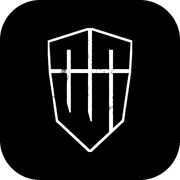
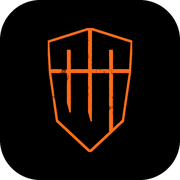
Rebuild the colours in orange, black and grey
One orange world, the same in light and dark: black type and pills on
an orange ground; the spectrum, product and link tiles in black and dark
grey carrying orange and light grey. The spectrum's bars are orange. The
favicon and home-screen icon are the orange mark on black, and the
browser theme colour is the orange.

Changed region(s): [[0.25, 0.1389, 0.75, 0.8611]]

diff --git a/index.html b/index.html
@@ -5,8 +5,7 @@
 <meta name="viewport" content="width=device-width, initial-scale=1, viewport-fit=cover">
 <title>ETH4N / Walker dsp</title>
 <meta name="description" content="ETH4N / Ayumu Iida と、プラグインメーカー Walker dsp。">
-<meta name="theme-color" media="(prefers-color-scheme: dark)" content="#000000">
-<meta name="theme-color" media="(prefers-color-scheme: light)" content="#ffffff">
+<meta name="theme-color" content="#ff6b1a">
 <meta property="og:type" content="website">
 <meta property="og:title" content="ETH4N / Walker dsp">
 <meta property="og:description" content="ETH4N / Ayumu Iida と、プラグインメーカー Walker dsp。">
@@ -23,37 +22,34 @@ body { margin: 0 }
 img { max-width: 100% }
 [hidden] { display: none !important }
 
-/* Layout: the same skeleton (a sticky bar of tabs, one panel per tab). The treatment follows
-   Nothing: a tightly tracked grotesk for display, mono labels, hairlines instead of boxes,
-   pill controls, rounded dark tiles, plenty of air, and a single red signal dot. */
+/* Layout: the same skeleton (a sticky bar of tabs, one panel per tab) with Nothing-style
+   type, hairlines and pill controls. Colour: one orange world, deliberately the same in
+   light and dark: black type and black pills on the orange ground; black and dark-grey
+   tiles that carry orange and light grey. */
 :root {
-  --bg: #000000;
-  --fg: #ffffff;
-  --mute: #8c8c8c;
-  --line: #262626;
-  --card: #111111;
-  --card-hi: #1b1b1b;
-  --red: #d71921;
-  --plate: #000000;       /* the spectrum and the product tiles stay dark in both themes */
-  --plate-fg: #ffffff;
-  --plate-dim: #6e6e6e;
+  --orange: #ff6b1a;
+  --ink: #0d0d0d;
+  --gray-900: #1a1a1a;   /* link and playlist tiles */
+  --gray-850: #232323;   /* ...on hover */
+  --gray-700: #3a3a3a;   /* lines on the dark tiles */
+  --gray-500: #7a7a7a;   /* secondary text on the dark tiles */
+  --gray-200: #d9d9d9;   /* text on the dark tiles */
+  --bg: var(--orange);
+  --fg: var(--ink);
+  --mute: #2e2e2e;       /* the lightest grey that still reads on orange at label size */
+  --line: rgba(13, 13, 13, .22);
+  --line-strong: rgba(13, 13, 13, .5);
+  --plate: var(--ink);   /* the spectrum and the product tiles */
+  --plate-fg: var(--gray-200);
+  --plate-dim: var(--gray-500);
   --plate-line: #262626;
   --r-lg: 24px;
   --r-md: 16px;
   --sans: "Geist", "Zen Kaku Gothic New", "Hiragino Sans", "Hiragino Kaku Gothic ProN", "Yu Gothic", Meiryo, system-ui, sans-serif;
   --mono: "Geist Mono", ui-monospace, "SF Mono", Menlo, Consolas, monospace;
-  color-scheme: dark;
-}
-@media (prefers-color-scheme: light) {
-  :root:not([data-theme="dark"]) {
-    --bg: #ffffff; --fg: #000000; --mute: #6b6b6b; --line: #e3e3e3; --card: #f2f2f2; --card-hi: #e8e8e8;
-    color-scheme: light;
-  }
-}
-:root[data-theme="light"] {
-  --bg: #ffffff; --fg: #000000; --mute: #6b6b6b; --line: #e3e3e3; --card: #f2f2f2; --card-hi: #e8e8e8;
   color-scheme: light;
 }
+::selection { background: var(--ink); color: var(--orange) }
 
 body {
   background: var(--bg);
@@ -208,7 +204,7 @@ button { font: inherit }
   color: var(--plate-dim);
 }
 .scope-live { display: inline-flex; align-items: center; gap: 8px; color: var(--plate-fg) }
-.scope-live::before { content: ""; width: 6px; height: 6px; border-radius: 50%; background: var(--red) }
+.scope-live::before { content: ""; width: 6px; height: 6px; border-radius: 50%; background: var(--orange) }
 .scope-read {
   display: flex;
   flex-wrap: wrap;
@@ -247,8 +243,8 @@ button { font: inherit }
   width: clamp(56px, 8vw, 96px);
   aspect-ratio: 1;
   border-radius: var(--r-md);
-  background: var(--card);
-  color: var(--fg);
+  background: var(--ink);
+  color: var(--orange);
 }
 .maker-tile .mark { --h: clamp(36px, 5.2vw, 64px) }
 
@@ -299,9 +295,9 @@ button { font: inherit }
   color: var(--plate-dim);
 }
 .meta span { white-space: nowrap }
-.meta .ver { color: var(--plate-fg) }
-.meta .go { border-color: var(--plate-line); color: var(--plate-fg) }
-.product:hover .go { background: var(--plate-fg); border-color: var(--plate-fg); color: var(--plate) }
+.meta .ver { color: var(--orange) }
+.meta .go { border-color: var(--gray-700); color: var(--plate-fg) }
+.product:hover .go { background: var(--orange); border-color: var(--orange); color: var(--ink) }
 
 /* ---------- history ---------- */
 .filters { display: flex; flex-wrap: wrap; gap: 8px; margin-bottom: 32px }
@@ -315,7 +311,7 @@ button { font: inherit }
   border-bottom: 1px solid var(--line);
 }
 .log .date { font: 400 13px/1.6 var(--mono); color: var(--mute); font-variant-numeric: tabular-nums }
-.tag { justify-self: start; padding: 2px 10px; border: 1px solid var(--line); border-radius: 999px; font-size: 10px }
+.tag { justify-self: start; padding: 2px 10px; border: 1px solid var(--line-strong); border-radius: 999px; font-size: 10px }
 .log h3 { font-weight: 500; font-size: 16px; line-height: 1.6 }
 .log h3 span { margin-left: 14px; font-weight: 400; font-size: 14px; color: var(--mute) }
 .is-sample .tag { border-style: dashed; color: var(--mute) }
@@ -345,11 +341,12 @@ button { font: inherit }
   min-height: 190px;
   padding: 24px;
   border-radius: var(--r-lg);
-  background: var(--card);
+  background: var(--gray-900);
+  color: var(--orange);
   text-decoration: none;
   transition: background .2s;
 }
-a.tile:hover { background: var(--card-hi) }
+a.tile:hover { background: var(--gray-850) }
 .tile-name { font-weight: 500; font-size: clamp(26px, 2.6vw, 34px); line-height: 1.1; letter-spacing: -.02em; overflow-wrap: anywhere }
 .tile-meta {
   display: flex;
@@ -358,13 +355,14 @@ a.tile:hover { background: var(--card-hi) }
   justify-content: space-between;
   gap: 10px 12px;
   font: 400 13px/1.5 var(--mono);
-  color: var(--mute);
+  color: var(--gray-500);
 }
-.tile-meta .circle { color: var(--fg) }
-a.tile:hover .circle { background: var(--fg); border-color: var(--fg); color: var(--bg) }
-.mail { min-width: 0; color: var(--fg); overflow-wrap: anywhere; text-decoration: none }
+.tile-meta .circle { border-color: var(--gray-700); color: var(--orange) }
+a.tile:hover .circle { background: var(--orange); border-color: var(--orange); color: var(--ink) }
+.mail { min-width: 0; color: var(--gray-200); overflow-wrap: anywhere; text-decoration: none }
 .mail:hover { text-decoration: underline }
-.copy { color: var(--fg) }
+.copy { border-color: var(--gray-700); color: var(--gray-200) }
+.copy:hover { background: var(--orange); border-color: var(--orange); color: var(--ink) }
 
 /* ---------- footer ---------- */
 .foot { margin-top: clamp(96px, 12vw, 160px); border-top: 1px solid var(--line) }
@@ -641,7 +639,7 @@ a.tile:hover .circle { background: var(--fg); border-color: var(--fg); color: va
   const LOG_SPAN = Math.log(FMAX / FMIN);
   const GRID = [[50, '50'], [100, '100'], [200, '200'], [500, '500'], [1000, '1k'],
                 [2000, '2k'], [5000, '5k'], [10000, '10k']];
-  const C = { grid: '#1f1f1f', dim: '#6e6e6e', bar: '#ffffff', peak: '#d71921' };
+  const C = { grid: '#262626', dim: '#7a7a7a', bar: '#ff6b1a', cap: '#d9d9d9' };
 
   let W = 1, H = 1, dpr = 1, pad = 20, raf = 0, onScreen = true;
   const t0 = performance.now();
@@ -693,8 +691,7 @@ a.tile:hover .circle { background: var(--fg); border-color: var(--fg); color: va
       ctx.lineWidth = (n <= 4 ? 3 : 1) * dpr;
       ctx.beginPath(); ctx.moveTo(x, base); ctx.lineTo(x, y); ctx.stroke();
       if (n <= 24) {
-        // The fundamental's cap is the one red signal.
-        ctx.fillStyle = n === 1 ? C.peak : C.bar;
+        ctx.fillStyle = C.cap;
         ctx.fillRect(x - 2 * dpr, y - dpr, 4 * dpr, 2 * dpr);
       }
     }
